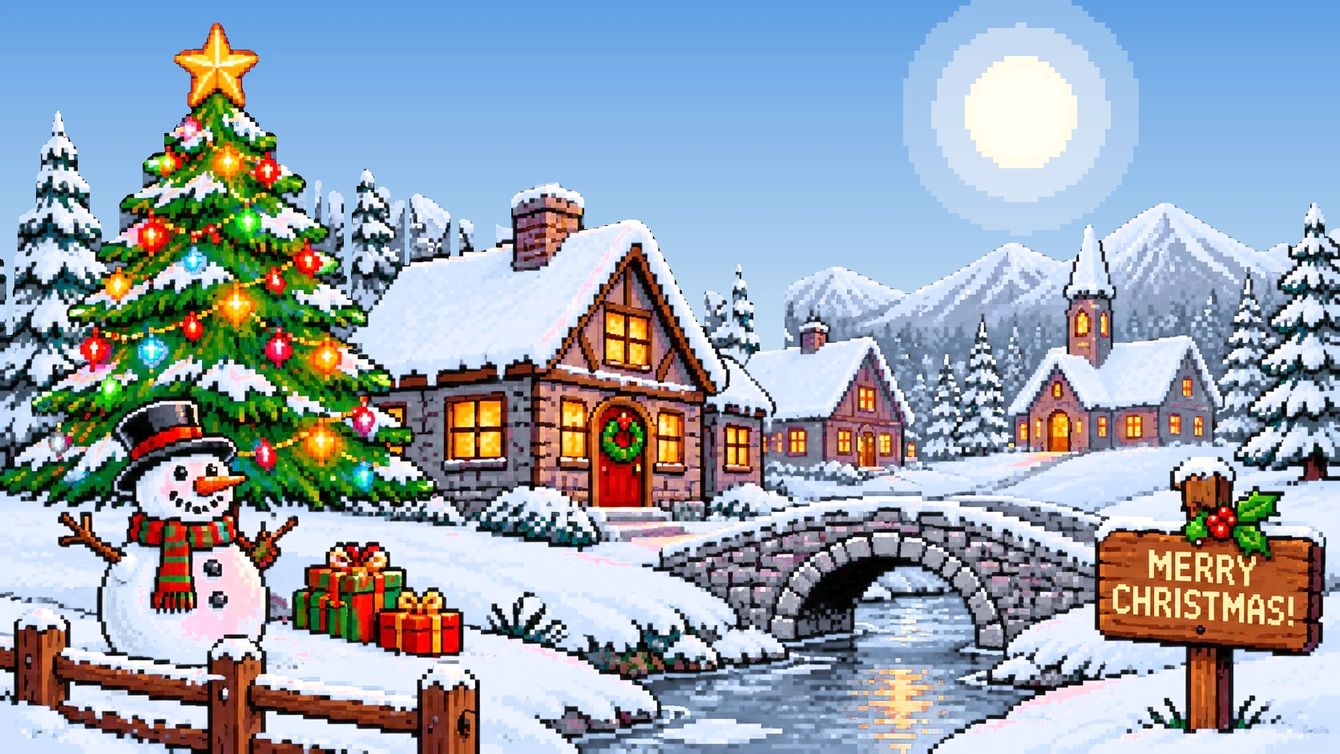
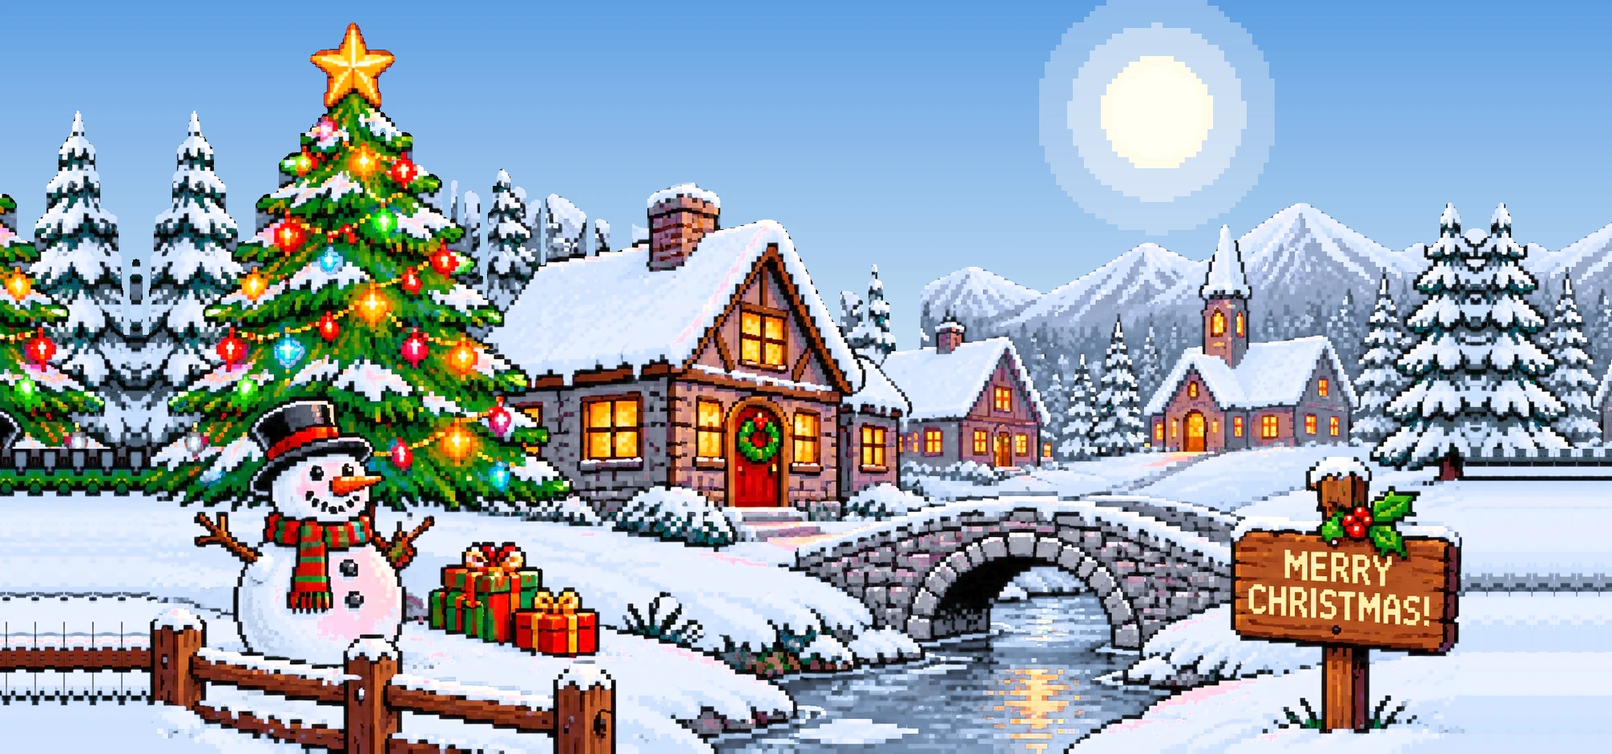
Widen the scene with snowy edges so wide screens fill without borders

diff --git a/assets/village/spots.js b/assets/village/spots.js
@@ -1,1 +1,1 @@
-window.SPOTS={"bulbs":[[284,202,"#fcad0d"],[324,212,"#f61e0b"],[187,281,"#f71108"],[189,296,"#fa5c0b"],[268,296,"#f6250f"],[379,323,"#f52107"],[392,328,"#f91c05"],[152,359,"#f9b40f"],[254,353,"#5991f2"],[347,356,"#f41b19"],[293,383,"#fcb20d"],[247,409,"#f51804"],[237,411,"#fd5e1a"],[447,421,"#8193f9"],[241,417,"#f71403"],[118,439,"#f71806"],[393,427,"#fcc51b"],[407,446,"#faa10b"],[340,440,"#ec104f"],[356,438,"#f31235"],[407,469,"#f7ab1b"],[277,481,"#7287f5"],[494,514,"#f5b317"],[399,551,"#fbae0e"],[434,526,"#5fa3ef"],[224,540,"#f43901"],[494,560,"#f5ab11"],[338,570,"#f00b0b"],[43,579,"#7593f8"],[96,589,"#36a6f3"],[268,601,"#f6560b"]],"windows":[[131,333,21,36],[1345,391,12,25],[1374,391,6,24],[757,395,21,24],[786,396,19,28],[757,423,21,30],[786,428,18,27],[1477,475,8,19],[1316,480,6,15],[1074,486,15,25],[599,501,25,31],[569,502,23,31],[703,502,25,30],[692,515,6,12],[810,515,35,29],[1314,517,18,28],[1407,521,16,23],[1461,520,11,21],[1491,521,9,22],[1293,523,5,22],[1372,522,7,22],[1343,526,6,14],[1274,529,7,19],[674,533,6,18],[908,535,9,18],[922,537,9,17],[599,539,25,31],[688,539,39,30],[988,539,15,25],[1047,539,13,24],[570,540,22,30],[971,541,4,23],[1097,543,13,22],[1070,547,7,18],[822,550,22,27],[1133,555,8,15],[908,558,9,25],[922,559,13,26]],"stars":[[46,22,5],[312,22,4],[413,22,4],[488,25,10],[511,21,3],[766,28,15],[889,28,15],[1002,22,5],[1119,22,4],[1153,26,10],[1516,22,5],[1620,27,14],[357,28,14],[118,32,15],[194,28,5],[595,32,13],[944,28,4],[1511,27,4],[1520,27,4],[697,34,13],[1067,33,13],[543,45,6],[650,45,5],[965,45,4],[972,51,4],[1578,56,14],[396,57,5],[389,61,4],[95,63,5],[347,64,6],[571,70,3],[225,71,3],[814,77,14],[1024,77,14],[173,77,4],[1535,91,13],[958,105,14],[1594,106,5],[830,113,5],[1072,118,6],[188,120,7],[72,137,7],[891,138,13],[1535,143,6],[1013,146,7],[1493,155,14],[766,155,6],[810,154,6],[82,166,5],[488,175,12],[527,172,5],[1084,173,5],[89,177,3],[414,178,6],[509,186,5],[97,190,9],[456,199,22],[135,202,4],[356,206,3],[1422,220,6],[783,221,4],[468,225,5],[579,226,6],[1039,227,6],[110,229,3],[575,231,5],[113,237,5],[148,236,5],[1639,245,17],[524,242,4],[594,242,3],[1603,243,5],[1118,252,11],[1556,256,5],[1632,261,4],[562,268,4],[570,268,5],[796,274,5],[1575,276,5],[1624,277,7],[1358,278,5],[126,283,9],[568,281,5],[761,279,5],[805,279,3],[1401,279,4],[571,286,5],[1174,287,6],[141,298,4],[1606,301,8],[869,308,9],[1253,304,4],[609,309,6],[1283,309,4],[972,316,6],[1120,316,5],[1297,314,4],[1338,321,7],[921,324,10],[1125,322,6],[1309,320,5],[1212,327,4],[1053,333,5],[925,335,5],[1067,339,4],[1080,344,5],[1179,344,4],[1093,350,5],[846,356,5],[875,357,7],[933,357,6],[1107,356,6],[1152,356,4],[1127,363,3],[852,368,4],[876,370,7],[907,370,6],[941,386,9],[970,396,4],[946,405,15],[977,413,6],[949,424,6]],"water":[[1108,714],[1115,714],[1122,714],[1129,714],[1136,714],[1143,714],[1150,714],[1094,721],[1101,721],[1108,721],[1115,721],[1122,721],[1129,721],[1136,721],[1143,721],[1150,721],[1157,721],[1087,728],[1094,728],[1101,728],[1108,728],[1115,728],[1122,728],[1129,728],[1136,728],[1143,728],[1150,728],[1157,728],[1164,728],[1171,728],[1087,735],[1094,735],[1101,735],[1108,735],[1115,735],[1122,735],[1129,735],[1136,735],[1143,735],[1150,735],[1157,735],[1164,735],[1171,735],[1178,735],[1080,742],[1087,742],[1094,742],[1101,742],[1108,742],[1178,742],[1185,742],[1066,749],[1101,749],[1108,749],[1115,749],[1122,749],[1129,749],[1136,749],[1143,749],[1150,749],[1157,749],[1164,749],[1171,749],[1178,749],[1185,749],[1192,749],[1199,749],[1024,756],[1073,756],[1080,756],[1087,756],[1094,756],[1101,756],[1108,756],[1115,756],[1122,756],[1129,756],[1136,756],[1143,756],[1150,756],[1157,756],[1164,756],[1171,756],[1178,756],[1185,756],[1192,756],[1199,756],[1059,763],[1066,763],[1073,763],[1080,763],[1087,763],[1094,763],[1101,763],[1108,763],[1115,763],[1122,763],[1129,763],[1136,763],[1143,763],[1150,763],[1157,763],[1164,763],[1171,763],[1178,763],[1185,763],[1192,763],[1199,763],[1206,763],[1024,770],[1038,770],[1045,770],[1059,770],[1066,770],[1073,770],[1080,770],[1087,770],[1094,770],[1101,770],[1108,770],[1115,770],[1122,770],[1129,770],[1136,770],[1143,770],[1150,770],[1157,770],[1164,770],[1171,770],[1178,770],[1185,770],[1192,770],[1199,770],[1206,770],[1234,770],[1241,770],[996,777],[1003,777],[1010,777],[1017,777],[1024,777],[1031,777],[1052,777],[1059,777],[1066,777],[1073,777],[1080,777],[1087,777],[1094,777],[1101,777],[1108,777],[1115,777],[1122,777],[1143,777],[1150,777],[1157,777],[1164,777],[1171,777],[1178,777],[1185,777],[1192,777],[1199,777],[1206,777],[1213,777],[1227,777],[1255,777],[975,784],[982,784],[989,784],[996,784],[1003,784],[1010,784],[1017,784],[1024,784],[1031,784],[1045,784],[1052,784],[1059,784],[1066,784],[1073,784],[1080,784],[1087,784],[1094,784],[1101,784],[1108,784],[1115,784],[1122,784],[1157,784],[1164,784],[1171,784],[1178,784],[1185,784],[1192,784],[1199,784],[1206,784],[1213,784],[1262,784],[1269,784],[954,791],[961,791],[968,791],[975,791],[982,791],[989,791],[1003,791],[1031,791],[1038,791],[1045,791],[1052,791],[1059,791],[1066,791],[1073,791],[1080,791],[1087,791],[1094,791],[1101,791],[1108,791],[1115,791],[1122,791],[1129,791],[1136,791],[1143,791],[1150,791],[1157,791],[1164,791],[1171,791],[1178,791],[1185,791],[1192,791],[1199,791],[1206,791],[1213,791],[1234,791],[1241,791],[1248,791],[1262,791],[940,798],[947,798],[954,798],[961,798],[968,798],[1003,798],[1010,798],[1017,798],[1024,798],[1031,798],[1038,798],[1059,798],[1066,798],[1073,798],[1080,798],[1087,798],[1094,798],[1101,798],[1108,798],[1143,798],[1150,798],[1157,798],[1164,798],[1171,798],[1178,798],[1185,798],[1192,798],[1199,798],[1206,798],[1213,798],[1227,798],[1241,798],[1248,798],[1269,798],[1276,798],[1283,798],[926,805],[933,805],[940,805],[947,805],[954,805],[961,805],[968,805],[975,805],[982,805],[989,805],[996,805],[1003,805],[1010,805],[1017,805],[1024,805],[1031,805],[1038,805],[1045,805],[1052,805],[1059,805],[1066,805],[1073,805],[1080,805],[1087,805],[1094,805],[1101,805],[1108,805],[1115,805],[1122,805],[1129,805],[1136,805],[1143,805],[1150,805],[1157,805],[1164,805],[1171,805],[1178,805],[1185,805],[1192,805],[1199,805],[1206,805],[1213,805],[1234,805],[1241,805],[1248,805],[1262,805],[1269,805],[1276,805],[1283,805],[912,812],[919,812],[926,812],[933,812],[940,812],[947,812],[954,812],[961,812],[968,812],[975,812],[989,812],[996,812],[1003,812],[1010,812],[1017,812],[1024,812],[1052,812],[1059,812],[1073,812],[1080,812],[1087,812],[1094,812],[1101,812],[1108,812],[1115,812],[1122,812],[1129,812],[1136,812],[1143,812],[1150,812],[1157,812],[1164,812],[1171,812],[1178,812],[1185,812],[1199,812],[1206,812],[1213,812],[1220,812],[1227,812],[1234,812],[1241,812],[1248,812],[1255,812],[1262,812],[1269,812],[1276,812],[1283,812],[898,819],[905,819],[912,819],[919,819],[933,819],[940,819],[947,819],[961,819],[968,819],[989,819],[996,819],[1003,819],[1010,819],[1017,819],[1024,819],[1031,819],[1038,819],[1045,819],[1052,819],[1059,819],[1066,819],[1073,819],[1080,819],[1087,819],[1094,819],[1101,819],[1108,819],[1115,819],[1122,819],[1129,819],[1136,819],[1143,819],[1150,819],[1157,819],[1164,819],[1171,819],[1178,819],[1185,819],[1192,819],[1199,819],[1206,819],[1220,819],[1227,819],[1234,819],[1241,819],[1248,819],[1262,819],[1269,819],[1276,819],[1283,819],[968,826],[975,826],[982,826],[989,826],[996,826],[1003,826],[1010,826],[1031,826],[1038,826],[1045,826],[1052,826],[1059,826],[1073,826],[1080,826],[1087,826],[1094,826],[1101,826],[1108,826],[1115,826],[1122,826],[1129,826],[1136,826],[1143,826],[1150,826],[1157,826],[1164,826],[1171,826],[1178,826],[1185,826],[1192,826],[1199,826],[1206,826],[1213,826],[1220,826],[1227,826],[1234,826],[1241,826],[1248,826],[1262,826],[1276,826],[1283,826],[877,833],[905,833],[912,833],[919,833],[926,833],[933,833],[940,833],[947,833],[954,833],[961,833],[968,833],[975,833],[982,833],[989,833],[996,833],[1003,833],[1010,833],[1017,833],[1024,833],[1031,833],[1038,833],[1045,833],[1052,833],[1059,833],[1066,833],[1073,833],[1080,833],[1087,833],[1094,833],[1101,833],[1108,833],[1115,833],[1122,833],[1129,833],[1136,833],[1143,833],[1150,833],[1157,833],[1164,833],[1171,833],[1178,833],[1185,833],[1192,833],[1199,833],[1206,833],[1213,833],[1220,833],[1227,833],[1234,833],[1255,833],[1262,833],[1269,833],[1276,833],[1283,833],[863,840],[870,840],[877,840],[884,840],[891,840],[898,840],[905,840],[912,840],[919,840],[926,840],[933,840],[940,840],[947,840],[954,840],[961,840],[968,840],[975,840],[982,840],[989,840],[996,840],[1003,840],[1010,840],[1017,840],[1024,840],[1031,840],[1038,840],[1045,840],[1052,840],[1059,840],[1066,840],[1073,840],[1080,840],[1087,840],[1094,840],[1101,840],[1115,840],[1136,840],[1143,840],[1157,840],[1164,840],[1171,840],[1178,840],[1185,840],[1192,840],[1199,840],[1206,840],[1213,840],[1220,840],[1241,840],[1248,840],[1255,840],[1262,840],[1269,840],[1276,840],[1283,840],[1290,840],[849,847],[856,847],[863,847],[870,847],[877,847],[884,847],[891,847],[898,847],[905,847],[912,847],[919,847],[926,847],[933,847],[940,847],[947,847],[954,847],[961,847],[968,847],[975,847],[982,847],[989,847],[996,847],[1003,847],[1010,847],[1017,847],[1024,847],[1031,847],[1038,847],[1045,847],[1052,847],[1059,847],[1066,847],[1073,847],[1080,847],[1087,847],[1115,847],[1122,847],[1129,847],[1136,847],[1143,847],[1150,847],[1157,847],[1164,847],[1171,847],[1178,847],[1185,847],[1192,847],[1199,847],[1213,847],[1227,847],[1248,847],[1269,847],[1276,847],[1283,847],[849,854],[856,854],[863,854],[870,854],[877,854],[884,854],[891,854],[898,854],[905,854],[912,854],[919,854],[926,854],[933,854],[940,854],[947,854],[954,854],[961,854],[968,854],[975,854],[982,854],[989,854],[996,854],[1003,854],[1010,854],[1017,854],[1024,854],[1031,854],[1038,854],[1045,854],[1052,854],[1059,854],[1066,854],[1073,854],[1080,854],[1087,854],[1094,854],[1101,854],[1108,854],[1122,854],[1164,854],[1171,854],[1178,854],[1185,854],[1192,854],[1199,854],[1206,854],[1213,854],[1220,854],[1227,854],[1234,854],[1241,854],[1248,854],[1262,854],[1269,854],[849,861],[856,861],[863,861],[870,861],[877,861],[884,861],[891,861],[898,861],[905,861],[912,861],[919,861],[926,861],[933,861],[940,861],[947,861],[954,861],[961,861],[968,861],[975,861],[982,861],[989,861],[996,861],[1003,861],[1010,861],[1017,861],[1024,861],[1031,861],[1038,861],[1045,861],[1052,861],[1059,861],[1066,861],[1073,861],[1080,861],[1087,861],[1094,861],[1101,861],[1115,861],[1122,861],[1136,861],[1164,861],[1171,861],[1178,861],[1185,861],[1192,861],[1199,861],[1206,861],[1213,861],[1220,861],[1227,861],[1234,861],[1241,861],[1248,861],[1255,861],[1262,861],[1269,861],[1276,861],[1283,861],[1290,861],[849,868],[856,868],[863,868],[870,868],[877,868],[884,868],[891,868],[898,868],[905,868],[912,868],[919,868],[926,868],[933,868],[940,868],[947,868],[954,868],[961,868],[968,868],[975,868],[982,868],[989,868],[996,868],[1003,868],[1010,868],[1017,868],[1024,868],[1031,868],[1038,868],[1045,868],[1052,868],[1059,868],[1066,868],[1073,868],[1080,868],[1087,868],[1094,868],[1101,868],[1108,868],[1129,868],[1143,868],[1150,868],[1157,868],[1164,868],[1171,868],[1185,868],[1192,868],[1199,868],[1206,868],[1213,868],[1220,868],[1227,868],[1234,868],[1241,868],[1248,868],[1255,868],[1262,868],[1269,868],[1276,868],[1283,868],[842,875],[849,875],[856,875],[863,875],[870,875],[877,875],[884,875],[891,875],[898,875],[905,875],[912,875],[919,875],[926,875],[933,875],[940,875],[947,875],[954,875],[961,875],[968,875],[975,875],[982,875],[989,875],[996,875],[1003,875],[1010,875],[1017,875],[1024,875],[1031,875],[1038,875],[1045,875],[1052,875],[1059,875],[1066,875],[1073,875],[1080,875],[1164,875],[1171,875],[1178,875],[1185,875],[1192,875],[1199,875],[1206,875],[1213,875],[1220,875],[1227,875],[1234,875],[1241,875],[1248,875],[1255,875],[1262,875],[1269,875],[842,882],[849,882],[856,882],[863,882],[870,882],[877,882],[884,882],[891,882],[898,882],[905,882],[912,882],[919,882],[926,882],[933,882],[940,882],[947,882],[954,882],[961,882],[968,882],[975,882],[982,882],[989,882],[996,882],[1003,882],[1010,882],[1017,882],[1024,882],[1031,882],[1038,882],[1045,882],[1052,882],[1059,882],[1066,882],[1073,882],[1080,882],[1087,882],[1115,882],[1122,882],[1143,882],[1164,882],[1171,882],[1178,882],[1185,882],[1192,882],[1199,882],[1206,882],[1213,882],[1220,882],[1227,882],[1234,882],[1241,882],[1248,882],[1255,882],[1262,882],[1290,882],[842,889],[849,889],[863,889],[870,889],[877,889],[884,889],[891,889],[898,889],[905,889],[912,889],[919,889],[926,889],[933,889],[940,889],[947,889],[954,889],[961,889],[968,889],[975,889],[982,889],[989,889],[996,889],[1003,889],[1010,889],[1017,889],[1024,889],[1031,889],[1038,889],[1045,889],[1052,889],[1059,889],[1066,889],[1073,889],[1080,889],[1087,889],[1094,889],[1101,889],[1108,889],[1122,889],[1143,889],[1150,889],[1157,889],[1164,889],[1171,889],[1178,889],[1185,889],[1192,889],[1199,889],[1206,889],[1213,889],[1220,889],[1227,889],[1234,889],[1241,889],[1248,889],[1262,889],[1283,889],[1290,889],[835,896],[842,896],[849,896],[856,896],[863,896],[870,896],[877,896],[884,896],[891,896],[898,896],[905,896],[912,896],[919,896],[926,896],[933,896],[940,896],[947,896],[954,896],[961,896],[968,896],[975,896],[982,896],[989,896],[996,896],[1003,896],[1010,896],[1017,896],[1024,896],[1031,896],[1038,896],[1045,896],[1052,896],[1059,896],[1073,896],[1080,896],[1087,896],[1094,896],[1108,896],[1129,896],[1143,896],[1150,896],[1157,896],[1164,896],[1171,896],[1178,896],[1185,896],[1192,896],[1199,896],[1206,896],[1213,896],[1220,896],[1227,896],[1255,896],[1262,896],[1269,896],[1276,896],[1283,896],[1290,896],[835,903],[842,903],[849,903],[856,903],[863,903],[870,903],[877,903],[884,903],[891,903],[898,903],[905,903],[912,903],[919,903],[926,903],[933,903],[940,903],[947,903],[954,903],[961,903],[968,903],[975,903],[982,903],[989,903],[996,903],[1003,903],[1010,903],[1017,903],[1024,903],[1031,903],[1038,903],[1045,903],[1052,903],[1059,903],[1066,903],[1073,903],[1087,903],[1108,903],[1122,903],[1129,903],[1143,903],[1150,903],[1157,903],[1164,903],[1171,903],[1178,903],[1185,903],[1192,903],[1199,903],[1206,903],[1241,903],[1269,903],[1276,903],[1283,903],[1290,903],[835,910],[842,910],[849,910],[856,910],[863,910],[870,910],[877,910],[884,910],[891,910],[898,910],[905,910],[912,910],[919,910],[926,910],[933,910],[940,910],[947,910],[954,910],[961,910],[968,910],[975,910],[982,910],[989,910],[996,910],[1003,910],[1010,910],[1017,910],[1024,910],[1031,910],[1038,910],[1045,910],[1052,910],[1059,910],[1066,910],[1073,910],[1080,910],[1087,910],[1094,910],[1101,910],[1108,910],[1122,910],[1129,910],[1136,910],[1143,910],[1164,910],[1171,910],[1178,910],[1185,910],[1192,910],[1206,910],[1213,910],[1234,910],[1248,910],[1255,910],[1262,910],[1269,910],[1276,910],[1283,910],[1290,910],[1297,910],[828,917],[835,917],[842,917],[849,917],[856,917],[863,917],[870,917],[877,917],[884,917],[891,917],[898,917],[905,917],[912,917],[919,917],[926,917],[933,917],[940,917],[947,917],[954,917],[961,917],[968,917],[975,917],[982,917],[989,917],[996,917],[1003,917],[1010,917],[1017,917],[1024,917],[1031,917],[1038,917],[1045,917],[1052,917],[1059,917],[1066,917],[1073,917],[1080,917],[1087,917],[1094,917],[1101,917],[1143,917],[1150,917],[1157,917],[1164,917],[1171,917],[1178,917],[1192,917],[1206,917],[1213,917],[1220,917],[1227,917],[1234,917],[1241,917],[1248,917],[1255,917],[1262,917],[1269,917],[1283,917],[1290,917],[1297,917],[828,924],[835,924],[842,924],[849,924],[856,924],[863,924],[870,924],[877,924],[884,924],[891,924],[898,924],[905,924],[912,924],[919,924],[926,924],[933,924],[940,924],[947,924],[954,924],[961,924],[968,924],[975,924],[982,924],[989,924],[996,924],[1003,924],[1010,924],[1017,924],[1024,924],[1031,924],[1038,924],[1045,924],[1052,924],[1059,924],[1066,924],[1073,924],[1080,924],[1087,924],[1094,924],[1101,924],[1108,924],[1115,924],[1122,924],[1129,924],[1136,924],[1143,924],[1150,924],[1157,924],[1164,924],[1171,924],[1178,924],[1192,924],[1199,924],[1206,924],[1213,924],[1220,924],[1227,924],[1234,924],[1241,924],[1248,924],[1255,924],[1262,924],[1269,924],[1276,924],[1283,924],[1290,924],[1297,924],[828,931],[835,931],[842,931],[849,931],[856,931],[863,931],[870,931],[877,931],[884,931],[891,931],[898,931],[905,931],[912,931],[919,931],[926,931],[933,931],[940,931],[947,931],[954,931],[961,931],[968,931],[975,931],[982,931],[989,931],[996,931],[1003,931],[1010,931],[1017,931],[1024,931],[1031,931],[1038,931],[1045,931],[1052,931],[1059,931],[1066,931],[1073,931],[1080,931],[1087,931],[1094,931],[1101,931],[1108,931],[1115,931],[1143,931],[1150,931],[1157,931],[1164,931],[1171,931],[1185,931],[1192,931],[1199,931],[1206,931],[1213,931],[1220,931],[1227,931],[1234,931],[1241,931],[1248,931],[1255,931],[1262,931],[1269,931],[1276,931],[1283,931],[1290,931],[1297,931],[821,938],[828,938],[835,938],[842,938],[849,938],[856,938],[863,938],[870,938],[877,938],[884,938],[891,938],[898,938],[905,938],[912,938],[919,938],[926,938],[933,938],[940,938],[947,938],[954,938],[961,938],[968,938],[975,938],[982,938],[989,938],[996,938],[1003,938],[1010,938],[1017,938],[1024,938],[1031,938],[1038,938],[1045,938],[1052,938],[1059,938],[1066,938],[1073,938],[1080,938],[1087,938],[1094,938],[1101,938],[1108,938],[1115,938],[1122,938],[1136,938],[1143,938],[1150,938],[1157,938],[1178,938],[1185,938],[1192,938],[1199,938],[1206,938],[1213,938],[1220,938],[1227,938],[1234,938],[1241,938],[1248,938],[1255,938],[1262,938],[1269,938],[1276,938],[1283,938],[1290,938],[1297,938]],"chimneys":[[683,232],[1014,404]],"moon":[1274,141],"size":[1672,941]};
+window.SPOTS={"bulbs":[[454,202,"#fcad0d"],[494,212,"#f61e0b"],[357,281,"#f71108"],[359,296,"#fa5c0b"],[438,296,"#f6250f"],[549,323,"#f52107"],[562,328,"#f91c05"],[322,359,"#f9b40f"],[424,353,"#5991f2"],[517,356,"#f41b19"],[463,383,"#fcb20d"],[417,409,"#f51804"],[407,411,"#fd5e1a"],[617,421,"#8193f9"],[411,417,"#f71403"],[288,439,"#f71806"],[563,427,"#fcc51b"],[577,446,"#faa10b"],[510,440,"#ec104f"],[526,438,"#f31235"],[577,469,"#f7ab1b"],[447,481,"#7287f5"],[664,514,"#f5b317"],[569,551,"#fbae0e"],[604,526,"#5fa3ef"],[394,540,"#f43901"],[664,560,"#f5ab11"],[508,570,"#f00b0b"],[213,579,"#7593f8"],[266,589,"#36a6f3"],[438,601,"#f6560b"]],"windows":[[301,333,21,36],[1515,391,12,25],[1544,391,6,24],[927,395,21,24],[956,396,19,28],[927,423,21,30],[956,428,18,27],[1647,475,8,19],[1486,480,6,15],[1244,486,15,25],[769,501,25,31],[739,502,23,31],[873,502,25,30],[862,515,6,12],[980,515,35,29],[1484,517,18,28],[1577,521,16,23],[1631,520,11,21],[1661,521,9,22],[1463,523,5,22],[1542,522,7,22],[1513,526,6,14],[1444,529,7,19],[844,533,6,18],[1078,535,9,18],[1092,537,9,17],[769,539,25,31],[858,539,39,30],[1158,539,15,25],[1217,539,13,24],[740,540,22,30],[1141,541,4,23],[1267,543,13,22],[1240,547,7,18],[992,550,22,27],[1303,555,8,15],[1078,558,9,25],[1092,559,13,26]],"stars":[[216,22,5],[482,22,4],[583,22,4],[658,25,10],[681,21,3],[936,28,15],[1059,28,15],[1172,22,5],[1289,22,4],[1323,26,10],[1686,22,5],[1790,27,14],[527,28,14],[288,32,15],[364,28,5],[765,32,13],[1114,28,4],[1681,27,4],[1690,27,4],[867,34,13],[1237,33,13],[713,45,6],[820,45,5],[1135,45,4],[1142,51,4],[1748,56,14],[566,57,5],[559,61,4],[265,63,5],[517,64,6],[741,70,3],[395,71,3],[984,77,14],[1194,77,14],[343,77,4],[1705,91,13],[1128,105,14],[1764,106,5],[1000,113,5],[1242,118,6],[358,120,7],[242,137,7],[1061,138,13],[1705,143,6],[1183,146,7],[1663,155,14],[936,155,6],[980,154,6],[252,166,5],[658,175,12],[697,172,5],[1254,173,5],[259,177,3],[584,178,6],[679,186,5],[267,190,9],[626,199,22],[305,202,4],[526,206,3],[1592,220,6],[953,221,4],[638,225,5],[749,226,6],[1209,227,6],[280,229,3],[745,231,5],[283,237,5],[318,236,5],[1809,245,17],[694,242,4],[764,242,3],[1773,243,5],[1288,252,11],[1726,256,5],[1802,261,4],[732,268,4],[740,268,5],[966,274,5],[1745,276,5],[1794,277,7],[1528,278,5],[296,283,9],[738,281,5],[931,279,5],[975,279,3],[1571,279,4],[741,286,5],[1344,287,6],[311,298,4],[1776,301,8],[1039,308,9],[1423,304,4],[779,309,6],[1453,309,4],[1142,316,6],[1290,316,5],[1467,314,4],[1508,321,7],[1091,324,10],[1295,322,6],[1479,320,5],[1382,327,4],[1223,333,5],[1095,335,5],[1237,339,4],[1250,344,5],[1349,344,4],[1263,350,5],[1016,356,5],[1045,357,7],[1103,357,6],[1277,356,6],[1322,356,4],[1297,363,3],[1022,368,4],[1046,370,7],[1077,370,6],[1111,386,9],[1140,396,4],[1116,405,15],[1147,413,6],[1119,424,6]],"water":[[1278,714],[1285,714],[1292,714],[1299,714],[1306,714],[1313,714],[1320,714],[1264,721],[1271,721],[1278,721],[1285,721],[1292,721],[1299,721],[1306,721],[1313,721],[1320,721],[1327,721],[1257,728],[1264,728],[1271,728],[1278,728],[1285,728],[1292,728],[1299,728],[1306,728],[1313,728],[1320,728],[1327,728],[1334,728],[1341,728],[1257,735],[1264,735],[1271,735],[1278,735],[1285,735],[1292,735],[1299,735],[1306,735],[1313,735],[1320,735],[1327,735],[1334,735],[1341,735],[1348,735],[1250,742],[1257,742],[1264,742],[1271,742],[1278,742],[1348,742],[1355,742],[1236,749],[1271,749],[1278,749],[1285,749],[1292,749],[1299,749],[1306,749],[1313,749],[1320,749],[1327,749],[1334,749],[1341,749],[1348,749],[1355,749],[1362,749],[1369,749],[1194,756],[1243,756],[1250,756],[1257,756],[1264,756],[1271,756],[1278,756],[1285,756],[1292,756],[1299,756],[1306,756],[1313,756],[1320,756],[1327,756],[1334,756],[1341,756],[1348,756],[1355,756],[1362,756],[1369,756],[1229,763],[1236,763],[1243,763],[1250,763],[1257,763],[1264,763],[1271,763],[1278,763],[1285,763],[1292,763],[1299,763],[1306,763],[1313,763],[1320,763],[1327,763],[1334,763],[1341,763],[1348,763],[1355,763],[1362,763],[1369,763],[1376,763],[1194,770],[1208,770],[1215,770],[1229,770],[1236,770],[1243,770],[1250,770],[1257,770],[1264,770],[1271,770],[1278,770],[1285,770],[1292,770],[1299,770],[1306,770],[1313,770],[1320,770],[1327,770],[1334,770],[1341,770],[1348,770],[1355,770],[1362,770],[1369,770],[1376,770],[1404,770],[1411,770],[1166,777],[1173,777],[1180,777],[1187,777],[1194,777],[1201,777],[1222,777],[1229,777],[1236,777],[1243,777],[1250,777],[1257,777],[1264,777],[1271,777],[1278,777],[1285,777],[1292,777],[1313,777],[1320,777],[1327,777],[1334,777],[1341,777],[1348,777],[1355,777],[1362,777],[1369,777],[1376,777],[1383,777],[1397,777],[1425,777],[1145,784],[1152,784],[1159,784],[1166,784],[1173,784],[1180,784],[1187,784],[1194,784],[1201,784],[1215,784],[1222,784],[1229,784],[1236,784],[1243,784],[1250,784],[1257,784],[1264,784],[1271,784],[1278,784],[1285,784],[1292,784],[1327,784],[1334,784],[1341,784],[1348,784],[1355,784],[1362,784],[1369,784],[1376,784],[1383,784],[1432,784],[1439,784],[1124,791],[1131,791],[1138,791],[1145,791],[1152,791],[1159,791],[1173,791],[1201,791],[1208,791],[1215,791],[1222,791],[1229,791],[1236,791],[1243,791],[1250,791],[1257,791],[1264,791],[1271,791],[1278,791],[1285,791],[1292,791],[1299,791],[1306,791],[1313,791],[1320,791],[1327,791],[1334,791],[1341,791],[1348,791],[1355,791],[1362,791],[1369,791],[1376,791],[1383,791],[1404,791],[1411,791],[1418,791],[1432,791],[1110,798],[1117,798],[1124,798],[1131,798],[1138,798],[1173,798],[1180,798],[1187,798],[1194,798],[1201,798],[1208,798],[1229,798],[1236,798],[1243,798],[1250,798],[1257,798],[1264,798],[1271,798],[1278,798],[1313,798],[1320,798],[1327,798],[1334,798],[1341,798],[1348,798],[1355,798],[1362,798],[1369,798],[1376,798],[1383,798],[1397,798],[1411,798],[1418,798],[1439,798],[1446,798],[1453,798],[1096,805],[1103,805],[1110,805],[1117,805],[1124,805],[1131,805],[1138,805],[1145,805],[1152,805],[1159,805],[1166,805],[1173,805],[1180,805],[1187,805],[1194,805],[1201,805],[1208,805],[1215,805],[1222,805],[1229,805],[1236,805],[1243,805],[1250,805],[1257,805],[1264,805],[1271,805],[1278,805],[1285,805],[1292,805],[1299,805],[1306,805],[1313,805],[1320,805],[1327,805],[1334,805],[1341,805],[1348,805],[1355,805],[1362,805],[1369,805],[1376,805],[1383,805],[1404,805],[1411,805],[1418,805],[1432,805],[1439,805],[1446,805],[1453,805],[1082,812],[1089,812],[1096,812],[1103,812],[1110,812],[1117,812],[1124,812],[1131,812],[1138,812],[1145,812],[1159,812],[1166,812],[1173,812],[1180,812],[1187,812],[1194,812],[1222,812],[1229,812],[1243,812],[1250,812],[1257,812],[1264,812],[1271,812],[1278,812],[1285,812],[1292,812],[1299,812],[1306,812],[1313,812],[1320,812],[1327,812],[1334,812],[1341,812],[1348,812],[1355,812],[1369,812],[1376,812],[1383,812],[1390,812],[1397,812],[1404,812],[1411,812],[1418,812],[1425,812],[1432,812],[1439,812],[1446,812],[1453,812],[1068,819],[1075,819],[1082,819],[1089,819],[1103,819],[1110,819],[1117,819],[1131,819],[1138,819],[1159,819],[1166,819],[1173,819],[1180,819],[1187,819],[1194,819],[1201,819],[1208,819],[1215,819],[1222,819],[1229,819],[1236,819],[1243,819],[1250,819],[1257,819],[1264,819],[1271,819],[1278,819],[1285,819],[1292,819],[1299,819],[1306,819],[1313,819],[1320,819],[1327,819],[1334,819],[1341,819],[1348,819],[1355,819],[1362,819],[1369,819],[1376,819],[1390,819],[1397,819],[1404,819],[1411,819],[1418,819],[1432,819],[1439,819],[1446,819],[1453,819],[1138,826],[1145,826],[1152,826],[1159,826],[1166,826],[1173,826],[1180,826],[1201,826],[1208,826],[1215,826],[1222,826],[1229,826],[1243,826],[1250,826],[1257,826],[1264,826],[1271,826],[1278,826],[1285,826],[1292,826],[1299,826],[1306,826],[1313,826],[1320,826],[1327,826],[1334,826],[1341,826],[1348,826],[1355,826],[1362,826],[1369,826],[1376,826],[1383,826],[1390,826],[1397,826],[1404,826],[1411,826],[1418,826],[1432,826],[1446,826],[1453,826],[1047,833],[1075,833],[1082,833],[1089,833],[1096,833],[1103,833],[1110,833],[1117,833],[1124,833],[1131,833],[1138,833],[1145,833],[1152,833],[1159,833],[1166,833],[1173,833],[1180,833],[1187,833],[1194,833],[1201,833],[1208,833],[1215,833],[1222,833],[1229,833],[1236,833],[1243,833],[1250,833],[1257,833],[1264,833],[1271,833],[1278,833],[1285,833],[1292,833],[1299,833],[1306,833],[1313,833],[1320,833],[1327,833],[1334,833],[1341,833],[1348,833],[1355,833],[1362,833],[1369,833],[1376,833],[1383,833],[1390,833],[1397,833],[1404,833],[1425,833],[1432,833],[1439,833],[1446,833],[1453,833],[1033,840],[1040,840],[1047,840],[1054,840],[1061,840],[1068,840],[1075,840],[1082,840],[1089,840],[1096,840],[1103,840],[1110,840],[1117,840],[1124,840],[1131,840],[1138,840],[1145,840],[1152,840],[1159,840],[1166,840],[1173,840],[1180,840],[1187,840],[1194,840],[1201,840],[1208,840],[1215,840],[1222,840],[1229,840],[1236,840],[1243,840],[1250,840],[1257,840],[1264,840],[1271,840],[1285,840],[1306,840],[1313,840],[1327,840],[1334,840],[1341,840],[1348,840],[1355,840],[1362,840],[1369,840],[1376,840],[1383,840],[1390,840],[1411,840],[1418,840],[1425,840],[1432,840],[1439,840],[1446,840],[1453,840],[1460,840],[1019,847],[1026,847],[1033,847],[1040,847],[1047,847],[1054,847],[1061,847],[1068,847],[1075,847],[1082,847],[1089,847],[1096,847],[1103,847],[1110,847],[1117,847],[1124,847],[1131,847],[1138,847],[1145,847],[1152,847],[1159,847],[1166,847],[1173,847],[1180,847],[1187,847],[1194,847],[1201,847],[1208,847],[1215,847],[1222,847],[1229,847],[1236,847],[1243,847],[1250,847],[1257,847],[1285,847],[1292,847],[1299,847],[1306,847],[1313,847],[1320,847],[1327,847],[1334,847],[1341,847],[1348,847],[1355,847],[1362,847],[1369,847],[1383,847],[1397,847],[1418,847],[1439,847],[1446,847],[1453,847],[1019,854],[1026,854],[1033,854],[1040,854],[1047,854],[1054,854],[1061,854],[1068,854],[1075,854],[1082,854],[1089,854],[1096,854],[1103,854],[1110,854],[1117,854],[1124,854],[1131,854],[1138,854],[1145,854],[1152,854],[1159,854],[1166,854],[1173,854],[1180,854],[1187,854],[1194,854],[1201,854],[1208,854],[1215,854],[1222,854],[1229,854],[1236,854],[1243,854],[1250,854],[1257,854],[1264,854],[1271,854],[1278,854],[1292,854],[1334,854],[1341,854],[1348,854],[1355,854],[1362,854],[1369,854],[1376,854],[1383,854],[1390,854],[1397,854],[1404,854],[1411,854],[1418,854],[1432,854],[1439,854],[1019,861],[1026,861],[1033,861],[1040,861],[1047,861],[1054,861],[1061,861],[1068,861],[1075,861],[1082,861],[1089,861],[1096,861],[1103,861],[1110,861],[1117,861],[1124,861],[1131,861],[1138,861],[1145,861],[1152,861],[1159,861],[1166,861],[1173,861],[1180,861],[1187,861],[1194,861],[1201,861],[1208,861],[1215,861],[1222,861],[1229,861],[1236,861],[1243,861],[1250,861],[1257,861],[1264,861],[1271,861],[1285,861],[1292,861],[1306,861],[1334,861],[1341,861],[1348,861],[1355,861],[1362,861],[1369,861],[1376,861],[1383,861],[1390,861],[1397,861],[1404,861],[1411,861],[1418,861],[1425,861],[1432,861],[1439,861],[1446,861],[1453,861],[1460,861],[1019,868],[1026,868],[1033,868],[1040,868],[1047,868],[1054,868],[1061,868],[1068,868],[1075,868],[1082,868],[1089,868],[1096,868],[1103,868],[1110,868],[1117,868],[1124,868],[1131,868],[1138,868],[1145,868],[1152,868],[1159,868],[1166,868],[1173,868],[1180,868],[1187,868],[1194,868],[1201,868],[1208,868],[1215,868],[1222,868],[1229,868],[1236,868],[1243,868],[1250,868],[1257,868],[1264,868],[1271,868],[1278,868],[1299,868],[1313,868],[1320,868],[1327,868],[1334,868],[1341,868],[1355,868],[1362,868],[1369,868],[1376,868],[1383,868],[1390,868],[1397,868],[1404,868],[1411,868],[1418,868],[1425,868],[1432,868],[1439,868],[1446,868],[1453,868],[1012,875],[1019,875],[1026,875],[1033,875],[1040,875],[1047,875],[1054,875],[1061,875],[1068,875],[1075,875],[1082,875],[1089,875],[1096,875],[1103,875],[1110,875],[1117,875],[1124,875],[1131,875],[1138,875],[1145,875],[1152,875],[1159,875],[1166,875],[1173,875],[1180,875],[1187,875],[1194,875],[1201,875],[1208,875],[1215,875],[1222,875],[1229,875],[1236,875],[1243,875],[1250,875],[1334,875],[1341,875],[1348,875],[1355,875],[1362,875],[1369,875],[1376,875],[1383,875],[1390,875],[1397,875],[1404,875],[1411,875],[1418,875],[1425,875],[1432,875],[1439,875],[1012,882],[1019,882],[1026,882],[1033,882],[1040,882],[1047,882],[1054,882],[1061,882],[1068,882],[1075,882],[1082,882],[1089,882],[1096,882],[1103,882],[1110,882],[1117,882],[1124,882],[1131,882],[1138,882],[1145,882],[1152,882],[1159,882],[1166,882],[1173,882],[1180,882],[1187,882],[1194,882],[1201,882],[1208,882],[1215,882],[1222,882],[1229,882],[1236,882],[1243,882],[1250,882],[1257,882],[1285,882],[1292,882],[1313,882],[1334,882],[1341,882],[1348,882],[1355,882],[1362,882],[1369,882],[1376,882],[1383,882],[1390,882],[1397,882],[1404,882],[1411,882],[1418,882],[1425,882],[1432,882],[1460,882],[1012,889],[1019,889],[1033,889],[1040,889],[1047,889],[1054,889],[1061,889],[1068,889],[1075,889],[1082,889],[1089,889],[1096,889],[1103,889],[1110,889],[1117,889],[1124,889],[1131,889],[1138,889],[1145,889],[1152,889],[1159,889],[1166,889],[1173,889],[1180,889],[1187,889],[1194,889],[1201,889],[1208,889],[1215,889],[1222,889],[1229,889],[1236,889],[1243,889],[1250,889],[1257,889],[1264,889],[1271,889],[1278,889],[1292,889],[1313,889],[1320,889],[1327,889],[1334,889],[1341,889],[1348,889],[1355,889],[1362,889],[1369,889],[1376,889],[1383,889],[1390,889],[1397,889],[1404,889],[1411,889],[1418,889],[1432,889],[1453,889],[1460,889],[1005,896],[1012,896],[1019,896],[1026,896],[1033,896],[1040,896],[1047,896],[1054,896],[1061,896],[1068,896],[1075,896],[1082,896],[1089,896],[1096,896],[1103,896],[1110,896],[1117,896],[1124,896],[1131,896],[1138,896],[1145,896],[1152,896],[1159,896],[1166,896],[1173,896],[1180,896],[1187,896],[1194,896],[1201,896],[1208,896],[1215,896],[1222,896],[1229,896],[1243,896],[1250,896],[1257,896],[1264,896],[1278,896],[1299,896],[1313,896],[1320,896],[1327,896],[1334,896],[1341,896],[1348,896],[1355,896],[1362,896],[1369,896],[1376,896],[1383,896],[1390,896],[1397,896],[1425,896],[1432,896],[1439,896],[1446,896],[1453,896],[1460,896],[1005,903],[1012,903],[1019,903],[1026,903],[1033,903],[1040,903],[1047,903],[1054,903],[1061,903],[1068,903],[1075,903],[1082,903],[1089,903],[1096,903],[1103,903],[1110,903],[1117,903],[1124,903],[1131,903],[1138,903],[1145,903],[1152,903],[1159,903],[1166,903],[1173,903],[1180,903],[1187,903],[1194,903],[1201,903],[1208,903],[1215,903],[1222,903],[1229,903],[1236,903],[1243,903],[1257,903],[1278,903],[1292,903],[1299,903],[1313,903],[1320,903],[1327,903],[1334,903],[1341,903],[1348,903],[1355,903],[1362,903],[1369,903],[1376,903],[1411,903],[1439,903],[1446,903],[1453,903],[1460,903],[1005,910],[1012,910],[1019,910],[1026,910],[1033,910],[1040,910],[1047,910],[1054,910],[1061,910],[1068,910],[1075,910],[1082,910],[1089,910],[1096,910],[1103,910],[1110,910],[1117,910],[1124,910],[1131,910],[1138,910],[1145,910],[1152,910],[1159,910],[1166,910],[1173,910],[1180,910],[1187,910],[1194,910],[1201,910],[1208,910],[1215,910],[1222,910],[1229,910],[1236,910],[1243,910],[1250,910],[1257,910],[1264,910],[1271,910],[1278,910],[1292,910],[1299,910],[1306,910],[1313,910],[1334,910],[1341,910],[1348,910],[1355,910],[1362,910],[1376,910],[1383,910],[1404,910],[1418,910],[1425,910],[1432,910],[1439,910],[1446,910],[1453,910],[1460,910],[1467,910],[998,917],[1005,917],[1012,917],[1019,917],[1026,917],[1033,917],[1040,917],[1047,917],[1054,917],[1061,917],[1068,917],[1075,917],[1082,917],[1089,917],[1096,917],[1103,917],[1110,917],[1117,917],[1124,917],[1131,917],[1138,917],[1145,917],[1152,917],[1159,917],[1166,917],[1173,917],[1180,917],[1187,917],[1194,917],[1201,917],[1208,917],[1215,917],[1222,917],[1229,917],[1236,917],[1243,917],[1250,917],[1257,917],[1264,917],[1271,917],[1313,917],[1320,917],[1327,917],[1334,917],[1341,917],[1348,917],[1362,917],[1376,917],[1383,917],[1390,917],[1397,917],[1404,917],[1411,917],[1418,917],[1425,917],[1432,917],[1439,917],[1453,917],[1460,917],[1467,917],[998,924],[1005,924],[1012,924],[1019,924],[1026,924],[1033,924],[1040,924],[1047,924],[1054,924],[1061,924],[1068,924],[1075,924],[1082,924],[1089,924],[1096,924],[1103,924],[1110,924],[1117,924],[1124,924],[1131,924],[1138,924],[1145,924],[1152,924],[1159,924],[1166,924],[1173,924],[1180,924],[1187,924],[1194,924],[1201,924],[1208,924],[1215,924],[1222,924],[1229,924],[1236,924],[1243,924],[1250,924],[1257,924],[1264,924],[1271,924],[1278,924],[1285,924],[1292,924],[1299,924],[1306,924],[1313,924],[1320,924],[1327,924],[1334,924],[1341,924],[1348,924],[1362,924],[1369,924],[1376,924],[1383,924],[1390,924],[1397,924],[1404,924],[1411,924],[1418,924],[1425,924],[1432,924],[1439,924],[1446,924],[1453,924],[1460,924],[1467,924],[998,931],[1005,931],[1012,931],[1019,931],[1026,931],[1033,931],[1040,931],[1047,931],[1054,931],[1061,931],[1068,931],[1075,931],[1082,931],[1089,931],[1096,931],[1103,931],[1110,931],[1117,931],[1124,931],[1131,931],[1138,931],[1145,931],[1152,931],[1159,931],[1166,931],[1173,931],[1180,931],[1187,931],[1194,931],[1201,931],[1208,931],[1215,931],[1222,931],[1229,931],[1236,931],[1243,931],[1250,931],[1257,931],[1264,931],[1271,931],[1278,931],[1285,931],[1313,931],[1320,931],[1327,931],[1334,931],[1341,931],[1355,931],[1362,931],[1369,931],[1376,931],[1383,931],[1390,931],[1397,931],[1404,931],[1411,931],[1418,931],[1425,931],[1432,931],[1439,931],[1446,931],[1453,931],[1460,931],[1467,931],[991,938],[998,938],[1005,938],[1012,938],[1019,938],[1026,938],[1033,938],[1040,938],[1047,938],[1054,938],[1061,938],[1068,938],[1075,938],[1082,938],[1089,938],[1096,938],[1103,938],[1110,938],[1117,938],[1124,938],[1131,938],[1138,938],[1145,938],[1152,938],[1159,938],[1166,938],[1173,938],[1180,938],[1187,938],[1194,938],[1201,938],[1208,938],[1215,938],[1222,938],[1229,938],[1236,938],[1243,938],[1250,938],[1257,938],[1264,938],[1271,938],[1278,938],[1285,938],[1292,938],[1306,938],[1313,938],[1320,938],[1327,938],[1348,938],[1355,938],[1362,938],[1369,938],[1376,938],[1383,938],[1390,938],[1397,938],[1404,938],[1411,938],[1418,938],[1425,938],[1432,938],[1439,938],[1446,938],[1453,938],[1460,938],[1467,938]],"chimneys":[[853,232],[1184,404]],"moon":[1444,141],"size":[2012,941]};

diff --git a/assets/village/village.js b/assets/village/village.js
@@ -26,10 +26,14 @@
   var stage = document.getElementById('stage');
   var nightImg = document.getElementById('night'), dayImg = document.getElementById('day');
   var glow1 = document.getElementById('glow1'), glow2 = document.getElementById('glow2');
-  var backdrop = document.getElementById('backdrop'), backdropDay = document.getElementById('bday');
   var fx = document.getElementById('fx'), ctx = fx.getContext('2d');
   var cloudCanvas = document.getElementById('clouds'), cctx = cloudCanvas.getContext('2d');
   var sleighCanvas = document.getElementById('sleigh'), sctx = sleighCanvas.getContext('2d');
+  // Everything is sized from the picture.
+  function size(el, w, h) { el.style.width = w + 'px'; el.style.height = h + 'px'; }
+  size(stage, W, H);
+  [nightImg, dayImg, glow1, glow2].forEach(function (el) { size(el, W, H); });
+  [fx, cloudCanvas].forEach(function (c) { c.width = GW; c.height = GH; size(c, GW * P, GH * P); });
 
   function load(src) {
     var img = new Image();
@@ -93,16 +97,14 @@
     if (Math.abs(d - lastDay) < 0.003 && Math.abs(g - lastGlow) < 0.003) return;
     lastDay = d; lastGlow = g;
     dayImg.style.opacity = d.toFixed(3);
-    backdropDay.style.opacity = d.toFixed(3);
     glow1.style.opacity = (0.8 * g).toFixed(3);
     glow2.style.opacity = (0.6 * g).toFixed(3);
   }
 
   // ---- Fitting the screen ------------------------------------------------------------------
-  // The picture always fills the screen's height. On a screen narrower than the picture, as in
-  // portrait, it drifts slowly from side to side so the whole village comes into view. On a
-  // wider one the whole picture shows, centred, with a blurred copy filling the sides.
-  var scale = 1, spareX = 0, spareY = 0, sizedW = 0, sizedH = 0, offsetX = 0;
+  // The picture fills the screen. It is wider than most screens, with snowy woods and fields
+  // either side of the village, so it drifts slowly from side to side to show it all.
+  var scale = 1, spareX = 0, spareY = 0, sizedW = 0, sizedH = 0;
   var view = document.getElementById('view');
   // The page can open before the screensaver has its size, and a resize event doesn't always
   // follow, so the size is checked again every frame until it is known and then once a second.
@@ -112,11 +114,9 @@
     if (!vw || !vh) return false;
     if (vw === sizedW && vh === sizedH) return true;
     sizedW = vw; sizedH = vh;
-    scale = vh / H;
+    scale = Math.max(vw / W, vh / H);
     spareX = Math.max(0, W * scale - vw);
-    spareY = 0;
-    offsetX = Math.max(0, (vw - W * scale) / 2);
-    backdrop.style.display = offsetX > 1 ? 'block' : 'none';
+    spareY = Math.max(0, H * scale - vh);
     return true;
   }
   window.addEventListener('resize', function () { sizedW = 0; layout(); });
@@ -125,8 +125,9 @@
   function place(t) {
     if (!sizedW || (sizeCheck += 1) >= 30) { sizeCheck = 0; layout(); }
     if (!sizedW) return;
-    var x = spareX > 1 ? -spareX * (0.5 + 0.5 * Math.sin(t / 1000 * 2 * Math.PI / 240)) : offsetX;
-    var y = 0;
+    var x = spareX > 1 ? -spareX * (0.5 + 0.5 * Math.sin(t / 1000 * 2 * Math.PI / 240)) : 0;
+    // A screen even wider than the picture loses a little sky and the rest from the foreground.
+    var y = -spareY * 0.2;
     stage.style.transform = 'translate(' + x.toFixed(1) + 'px,' + y.toFixed(1) + 'px) scale(' + scale + ')';
   }
 

diff --git a/assets/village/index.html b/assets/village/index.html
@@ -8,15 +8,10 @@
   html, body { margin: 0; width: 100%; height: 100%; overflow: hidden; background: #0b1030; }
   /* The screen. It clips the scene, so the scene never widens the page. */
   #view { position: fixed; left: 0; top: 0; right: 0; bottom: 0; overflow: hidden; }
-  /* On a screen wider than the picture, the whole picture shows and a blurred copy fills the sides. */
-  #backdrop { position: absolute; left: 0; top: 0; right: 0; bottom: 0; overflow: hidden; display: none; }
-  #backdrop img { position: absolute; left: 0; top: 0; width: 100%; height: 100%; object-fit: cover;
-    transform: scale(1.15); filter: blur(18px) brightness(0.6); }
-  #bday { opacity: 0; }
-  /* The scene is drawn at the picture's own size and scaled to fit the screen. */
-  #stage { position: absolute; left: 0; top: 0; width: 1672px; height: 941px; transform-origin: 0 0; }
+  /* The scene is drawn at the picture's own size and scaled to fill the screen. The script sets
+     the sizes from the picture's. */
+  #stage { position: absolute; left: 0; top: 0; transform-origin: 0 0; }
   #stage canvas, #stage img { position: absolute; left: 0; top: 0; image-rendering: pixelated; image-rendering: crisp-edges; }
-  #night, #day, .glow { width: 1672px; height: 941px; }
   #day { opacity: 0; }
   /* The warm light of sunrise and sunset. */
   .glow { position: absolute; left: 0; top: 0; opacity: 0; pointer-events: none;
@@ -26,25 +21,20 @@
   #diag { position: fixed; left: 8px; top: 8px; z-index: 9; margin: 0; padding: 8px 10px; max-width: 90vw;
     font: 13px/1.4 monospace; color: #ff0; background: rgba(0,0,0,0.8); white-space: pre-wrap; display: none; }
   /* The effects are drawn at one dot per 7 picture pixels, the size of the art's own pixels. */
-  #clouds, #fx { width: 1673px; height: 945px; }
   #clouds { opacity: 0; }
   #sleigh { display: none; transform-origin: 0 0; }
 </style>
 </head>
 <body>
 <div id="view">
-  <div id="backdrop">
-    <img id="bnight" src="night.webp" alt="">
-    <img id="bday" src="day.webp" alt="">
-  </div>
   <div id="stage">
     <img id="night" src="night.webp" alt="">
     <img id="day" src="day.webp" alt="">
     <div class="glow" id="glow1"></div>
     <div class="glow" id="glow2"></div>
-    <canvas id="clouds" width="239" height="135"></canvas>
+    <canvas id="clouds"></canvas>
     <canvas id="sleigh" width="257" height="136"></canvas>
-    <canvas id="fx" width="239" height="135"></canvas>
+    <canvas id="fx"></canvas>
   </div>
 </div>
 <pre id="diag"></pre>

diff --git a/README.md b/README.md
@@ -16,7 +16,7 @@ A [Kiosk Satellite](https://kiosksatellite.com) screensaver: an animated pixel a
 2. Open **Screensaver > Screensaver mode** and pick **Christmas Village (Christmas Village)**. You can also pick it in a screensaver schedule entry.
 3. Start the screensaver from the kiosk menu, or wait for the idle timeout.
 
-The village fills the screen. On a screen narrower than the picture, such as a tablet in portrait, it drifts slowly from side to side so the whole village comes into view.
+The village fills the screen with no borders. The picture is wider than most screens, with snowy woods and fields either side of the village, so it drifts slowly from side to side to show it all.
 
 ## Settings
 
